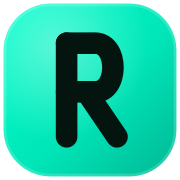
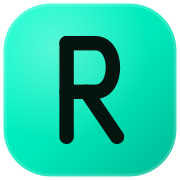
feat(deploy): add deployment script for rezzy-customer SPA
feat(index): implement theme persistence in index.html

fix(favicon): adjust stroke width in favicon.svg

chore(public): update various icon images

Changed region(s): [[0.3056, 0.1667, 0.7222, 0.8333], [0.3889, 0.2778, 0.6111, 0.4722]]

diff --git a/rezzy-customer/index.html b/rezzy-customer/index.html
@@ -13,6 +13,19 @@
     <link rel="preconnect" href="https://fonts.gstatic.com" crossorigin />
     <link href="https://fonts.googleapis.com/css2?family=Geist:wght@300;400;500;600;700&family=Geist+Mono:wght@400;500;600&display=swap" rel="stylesheet" />
     <title>Rezzy</title>
+    <script>
+      // Apply saved theme before first paint to avoid a flash of the wrong theme.
+      (function () {
+        try {
+          var t = localStorage.getItem('rezzy-theme');
+          if (t === 'light' || t === 'dark') {
+            document.documentElement.setAttribute('data-theme', t);
+            var m = document.querySelector('meta[name="theme-color"]');
+            if (m) m.setAttribute('content', t === 'light' ? '#ffffff' : '#0a0e0c');
+          }
+        } catch (e) {}
+      })();
+    </script>
   </head>
   <body>
     <div id="root"></div>
